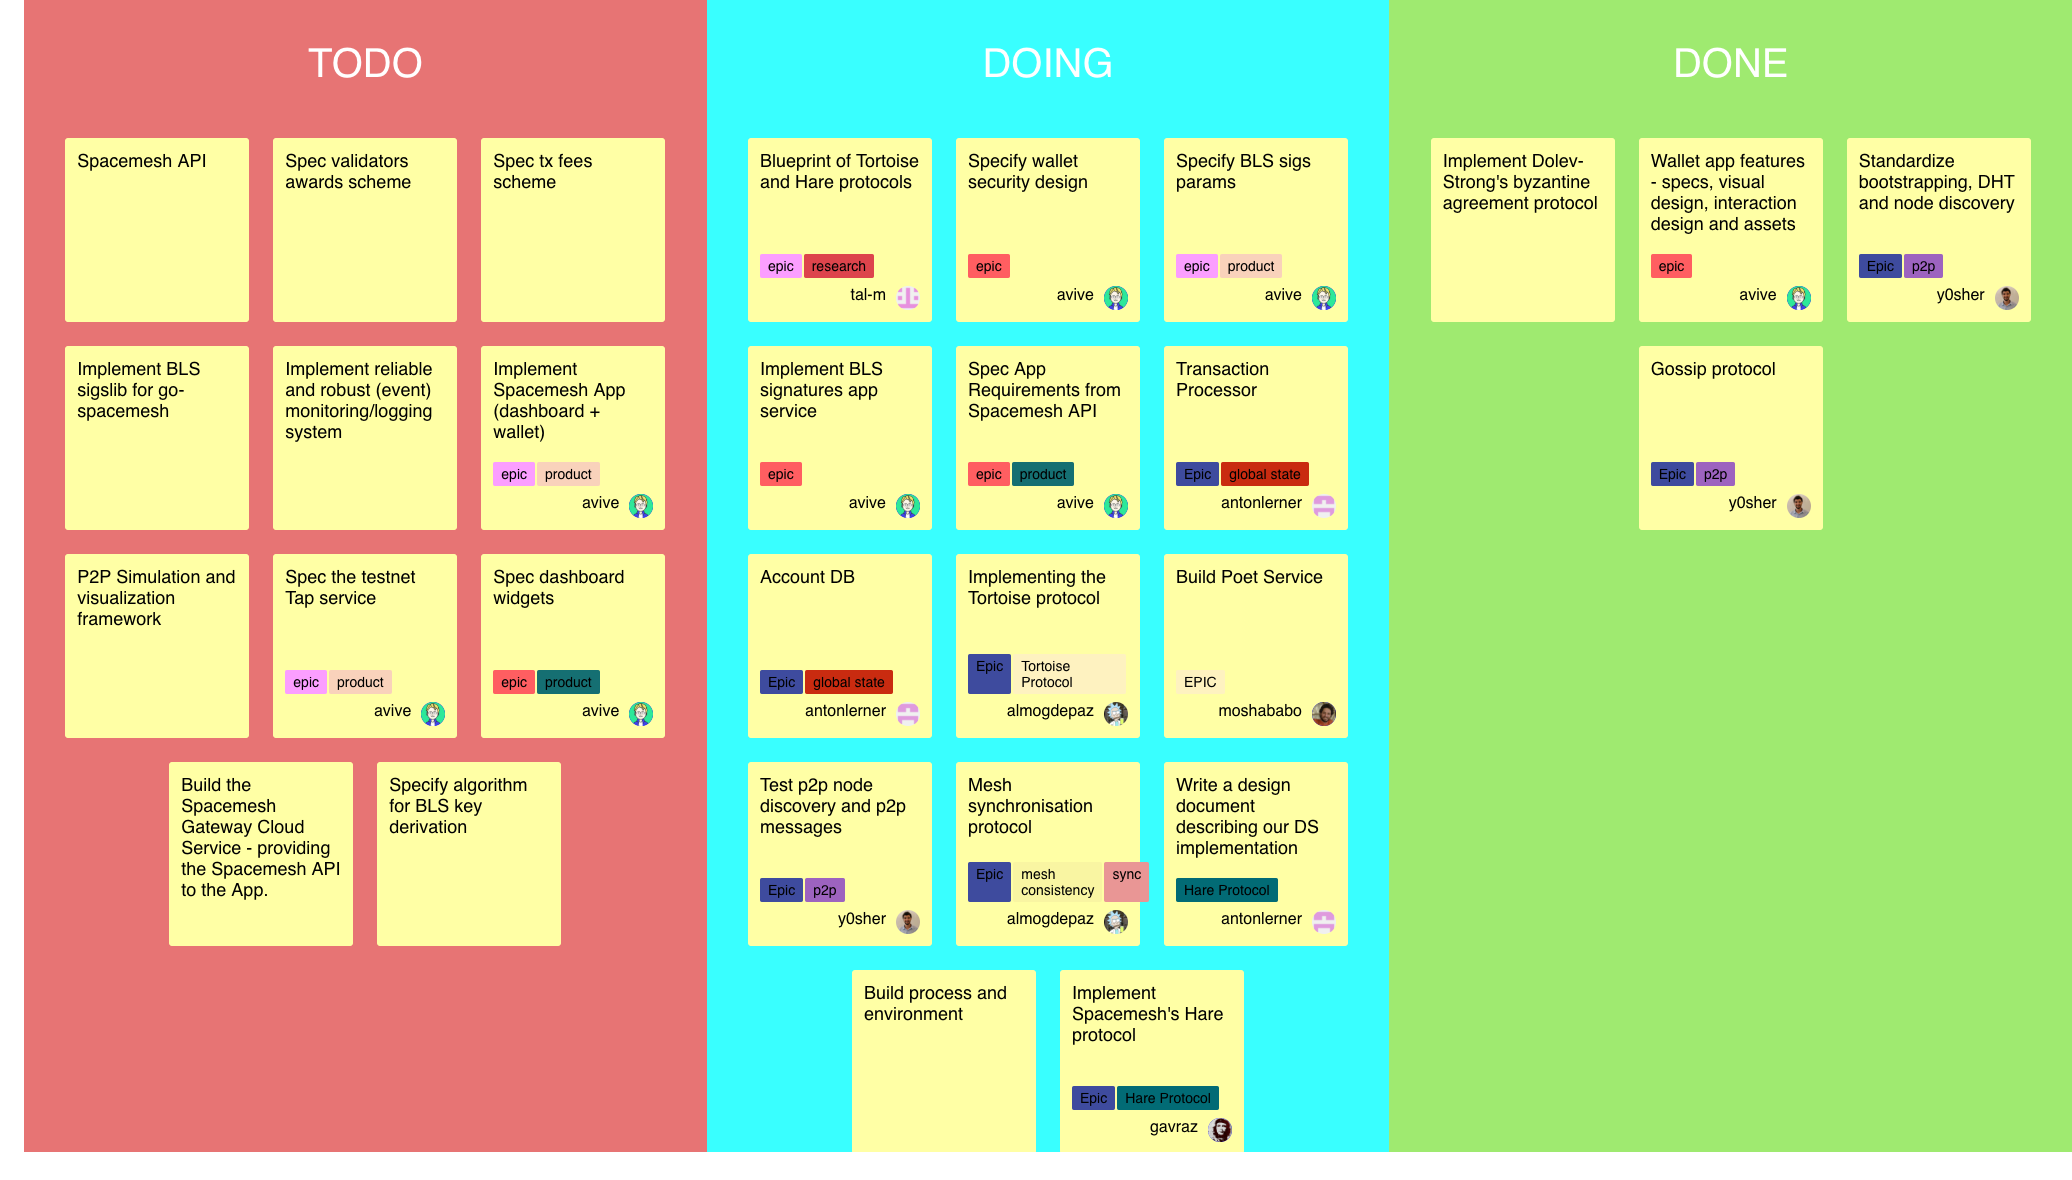
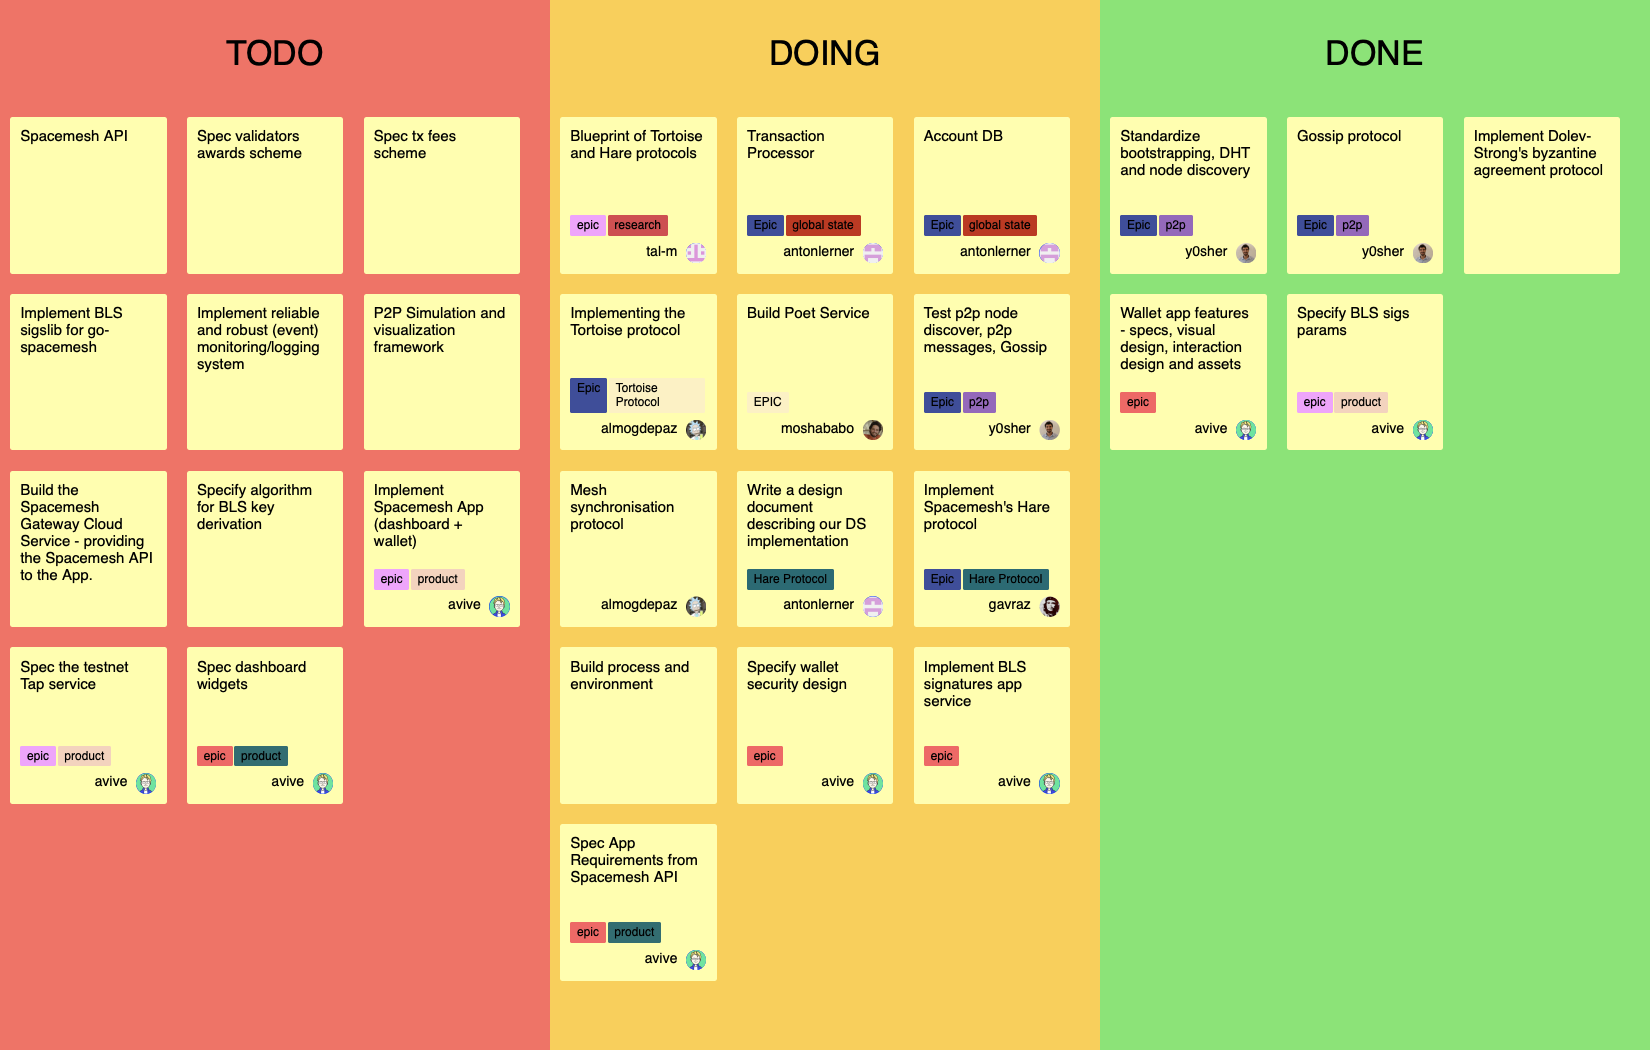
Updated mock and minor style tweaks

diff --git a/src/App.css b/src/App.css
@@ -33,7 +33,7 @@
     flex-direction: row;
     flex-flow: wrap;
     align-items: flex-start;
-    justify-content: center;
+    justify-content: flex-start;
     align-content: flex-start;
 }
 
